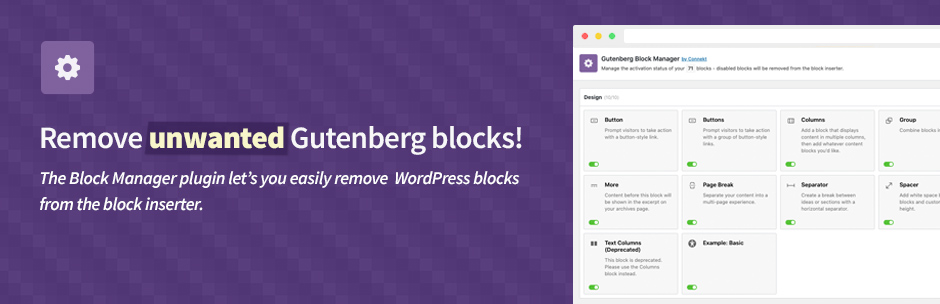
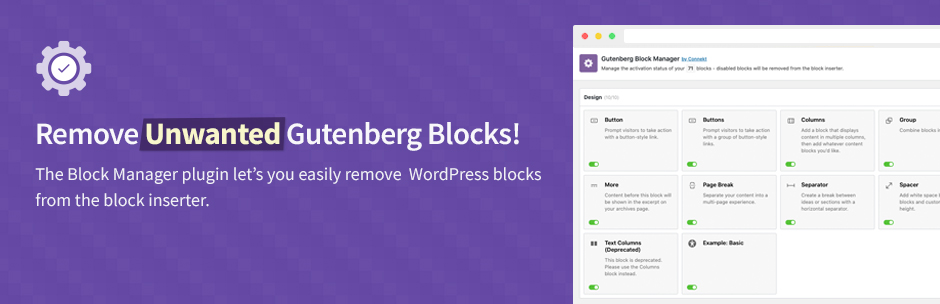
Readme update

diff --git a/README.md b/README.md
@@ -2,15 +2,17 @@
 
 Remove unwanted Gutenberg blocks with the Gutenberg Block Manager for WordPress.
 
-![Block Manager Hero](https://ps.w.org/block-manager/assets/banner-772x250.jpg?rev=2450321)
+![Block Manager Hero](https://ps.w.org/block-manager/assets/banner-772x250.jpg?rev=2483990)
 
 The Gutenberg Block Manager is an intuitive tool for WordPress site admins to globally manage the enabled/disabled state of each block. Disabled blocks will be removed from the block inserter on post edit screens.
 
 ![Block Manager Admin](https://ps.w.org/block-manager/assets/screenshot-1.png)
 
 ### FEATURES
-- Globally Enable/Disable Blocks – Unlike the block manager functionality in the Gutenberg editor, this tool will globally enables/disables blocks for all users on your site.
-- Block Search and Filter – Quickly locate blocks using the block search functionality in the sidebar.
-- Filter Hooks – Use the `gbm_disabled_blocks` filter to control blocks from functions.php.
+- **Globally Enable/Disable Blocks** – Unlike the block manager functionality in the Gutenberg editor, this tool will globally enables/disables blocks for all users on your site.
+- **Block Search and Filter** – Quickly locate blocks using the block search functionality in the sidebar.
+- **Filter Hooks** – Use the `gbm_disabled_blocks` filter to control blocks from functions.php.
+ -**Category Switcher** – Functionality for changing the categories Gutenberg blocks.
+
 
 &raquo; [View on WordPress](https://wordpress.org/plugins/block-manager/)
